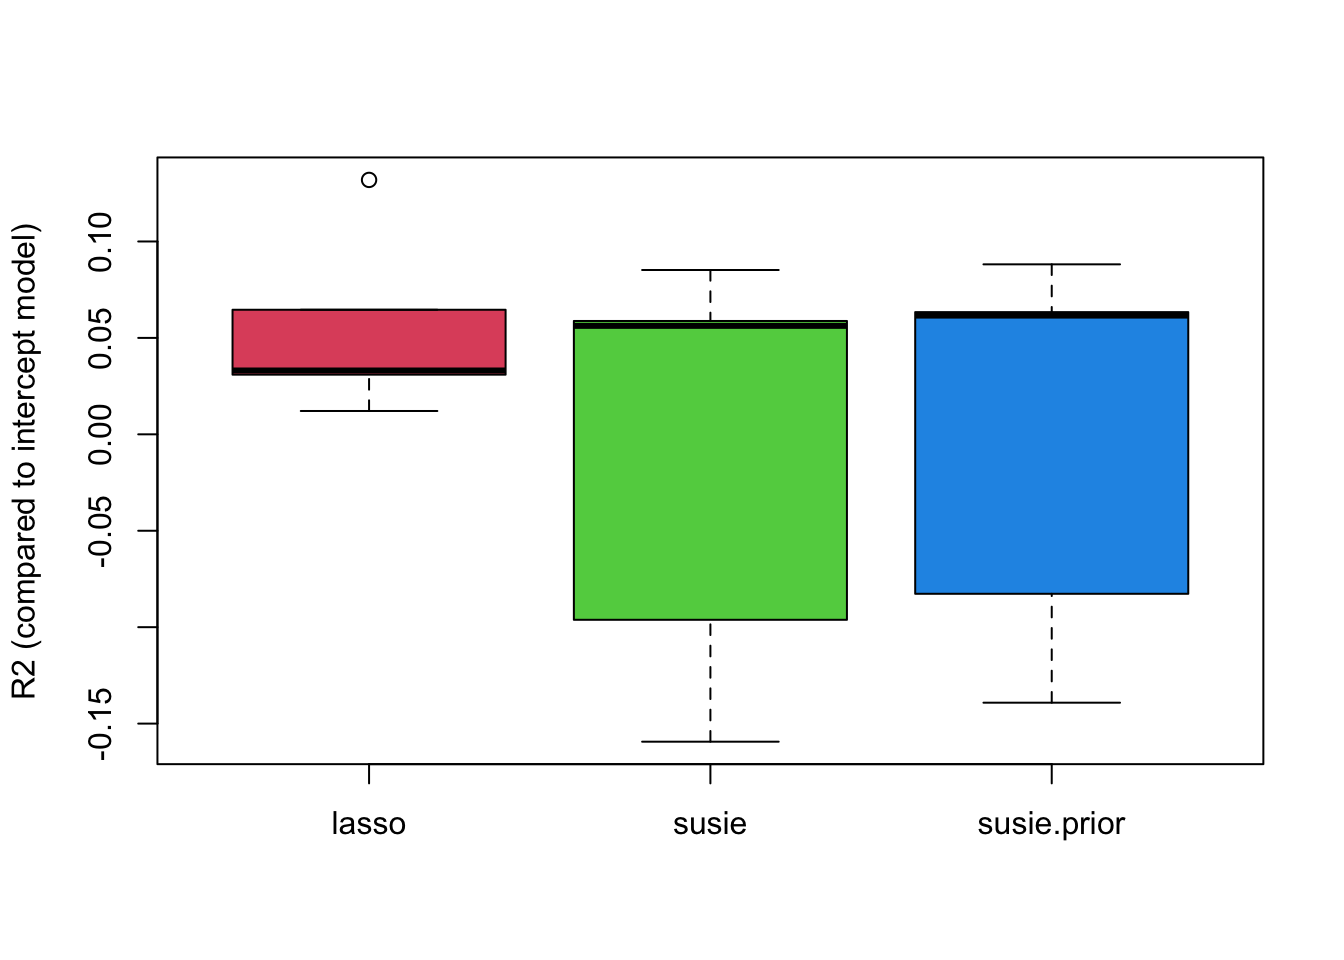
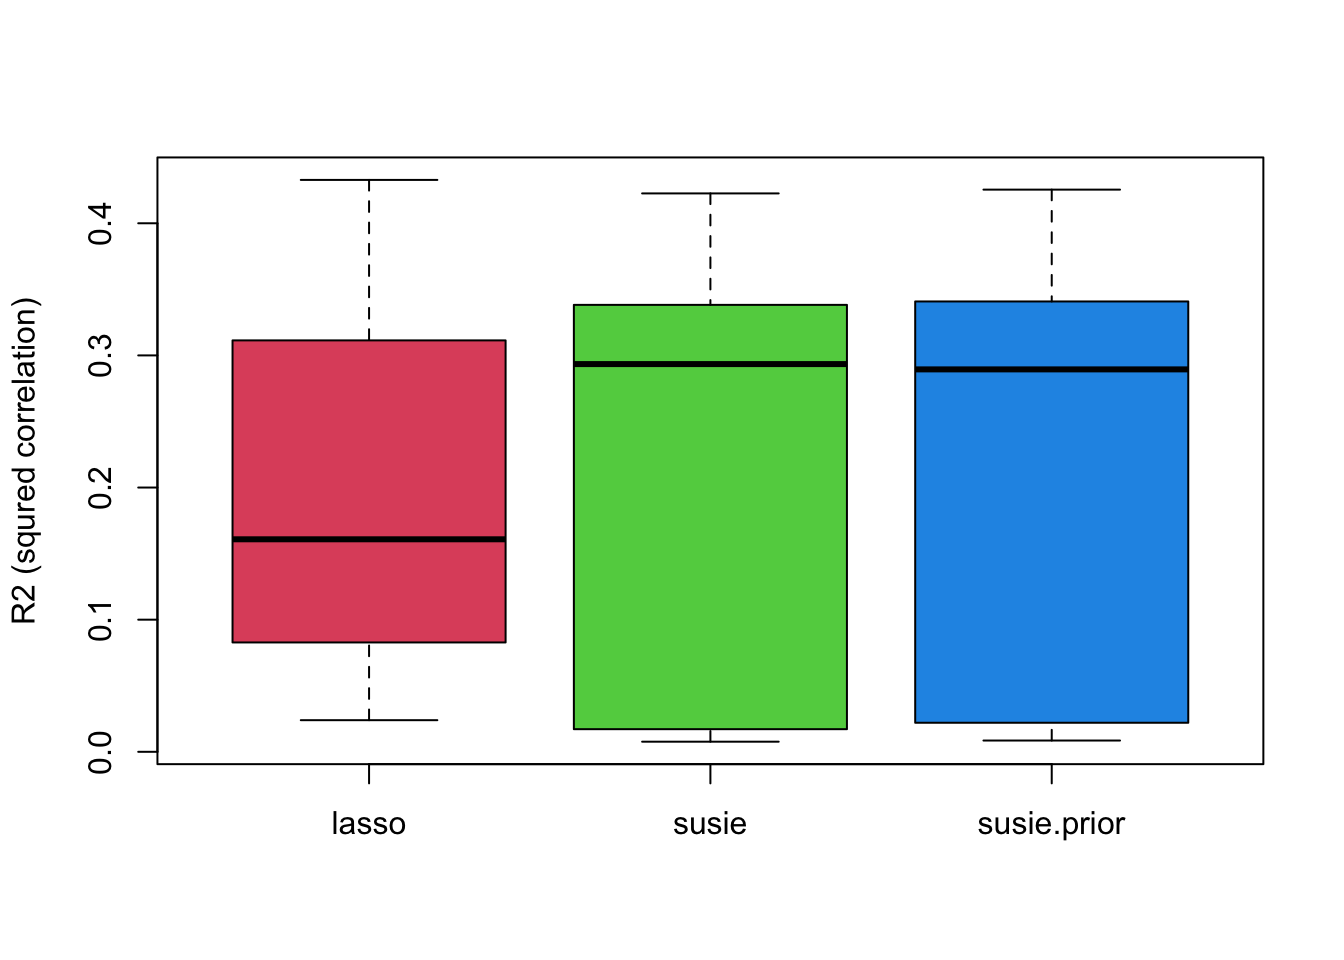
Build site.

diff --git a/docs/informative_prior.html b/docs/informative_prior.html
@@ -512,15 +512,15 @@ project makes it easier to run your code on other machines.</p>
 <div class="panel panel-default">
 <div class="panel-heading">
 <p class="panel-title">
-<a data-toggle="collapse" data-parent="#workflowr-checks" href="#strongRepositoryversionstrongahrefhttpsgithubcomLifanLiangeQTLmethodstree528a7e2b11ee2acf11f6fe1d30c37f3876037c70targetblank528a7e2a">
+<a data-toggle="collapse" data-parent="#workflowr-checks" href="#strongRepositoryversionstrongahrefhttpsgithubcomLifanLiangeQTLmethodstree882e848851ebb7597fc250ef3829d5645f55fd14targetblank882e848a">
 <span class="glyphicon glyphicon-ok text-success"
 aria-hidden="true"></span> <strong>Repository version:</strong>
-<a href="https://github.com/LifanLiang/eQTL_methods/tree/528a7e2b11ee2acf11f6fe1d30c37f3876037c70" target="_blank">528a7e2</a>
+<a href="https://github.com/LifanLiang/eQTL_methods/tree/882e848851ebb7597fc250ef3829d5645f55fd14" target="_blank">882e848</a>
 </a>
 </p>
 </div>
 <div
[2 lines of base64/hex data omitted]
 class="panel-collapse collapse">
 <div class="panel-body">
 <p>
@@ -530,7 +530,7 @@ reproducibility.
 </p>
 <p>
 The results in this page were generated with repository version
-<a href="https://github.com/LifanLiang/eQTL_methods/tree/528a7e2b11ee2acf11f6fe1d30c37f3876037c70" target="_blank">528a7e2</a>.
+<a href="https://github.com/LifanLiang/eQTL_methods/tree/882e848851ebb7597fc250ef3829d5645f55fd14" target="_blank">882e848</a>.
 See the <em>Past versions</em> tab to see a history of the changes made
 to the R Markdown and HTML files.
 </p>
@@ -548,6 +548,7 @@ Ignored files:
     Ignored:    .DS_Store
     Ignored:    .RData
     Ignored:    .Rhistory
+    Ignored:    analysis/figure/
 
 Untracked files:
     Untracked:  data/neuron_stim_genotype_chr9_2e6-3e6.rds
@@ -608,6 +609,40 @@ Message
 </tr>
 </thead>
 <tbody>
+<tr>
+<td>
+Rmd
+</td>
+<td>
+<a href="https://github.com/LifanLiang/eQTL_methods/blob/882e848851ebb7597fc250ef3829d5645f55fd14/analysis/informative_prior.Rmd" target="_blank">882e848</a>
+</td>
+<td>
+Lifan Liang
+</td>
+<td>
+2025-02-28
+</td>
+<td>
+wflow_publish("analysis")
+</td>
+</tr>
+<tr>
+<td>
+html
+</td>
+<td>
+<a href="https://rawcdn.githack.com/LifanLiang/eQTL_methods/b87a57e01f9443443fc481aa83a04aadf0da54b0/docs/informative_prior.html" target="_blank">b87a57e</a>
+</td>
+<td>
+Lifan Liang
+</td>
+<td>
+2025-02-28
+</td>
+<td>
+Build site.
+</td>
+</tr>
 <tr>
 <td>
 Rmd
@@ -945,7 +980,8 @@ sim_group_pi &lt;- function(X, pi=pi, sigma=0.25, sigma.e=1.0) {
   }
   beta &lt;- rnorm(ncol(X),sd=sigma) * gamma
   eps &lt;- rnorm(nrow(X),sd=sigma.e)
-  Y &lt;- X %*% beta + eps
+  X &lt;- scale(X, center=T, scale=T)
+  Y &lt;- drop(X %*% beta + eps)
   list(y=Y, X=X, pi=pi, gamma=gamma, beta=beta, eps=eps)
 }</code></pre>
 <p>PVE varies because the genetic component of <span
@@ -1178,9 +1214,9 @@ Lifan Liang
 to strong LD in the loci, PIP for individual SNP was low.</p>
 <pre class="r"><code>library(susieR)
 
-X1 &lt;- apply(sim.res$X,2,as.numeric)
-susie.fit &lt;- susie(X1, sim.res$y, prior_weights = sim.res$pi,
-                   L=sum(sim.res$gamma),standardize = F, coverage = 0.95)
+susie.fit &lt;- susie(sim.res$X, sim.res$y, prior_weights = sim.res$pi,
+                   L=sum(sim.res$gamma), coverage = 0.9, standardize = T,
+                   compute_univariate_zscore = T)
 susie_plot(susie.fit, y=&#39;PIP&#39;)</code></pre>
 <p><img src="figure/informative_prior.Rmd/unnamed-chunk-7-1.png" width="672" style="display: block; margin: auto;" /></p>
 <p>
@@ -1244,8 +1280,7 @@ Lifan Liang
 </div>
 <p>When SuSIE was run without the grouped prior, more SNPs have similar
 PIP in the same credible set.</p>
-<pre class="r"><code>susie.fit &lt;- susie(X1, sim.res$y, coverage = 0.95,
-                   L=sum(sim.res$gamma),standardize = F)
+<pre class="r"><code>susie.fit &lt;- susie(sim.res$X, sim.res$y,L=sum(sim.res$gamma))
 susie_plot(susie.fit, y=&#39;PIP&#39;)</code></pre>
 <p><img src="figure/informative_prior.Rmd/unnamed-chunk-8-1.png" width="672" style="display: block; margin: auto;" /></p>
 <p>
@@ -1326,73 +1361,22 @@ mean of <span class="math inline">\(y\)</span> in the training set.</p>
 <pre class="r"><code>calc.r2 &lt;- function(y.test, y.hat, y.mean) {
   1 - sum((y.test-y.hat)**2) / sum((y.test-y.mean)**2)
 }</code></pre>
+<pre class="r"><code>calc.mse &lt;- function(y.test, y.hat) {
+  mean((y.test - y.hat)^2)
+}</code></pre>
 <pre class="r"><code>set.seed(22)
 sim.res &lt;- sim_group_pi(X, pi)
 inds &lt;- sample(rep(1:5,times=20))
-sim.res$X &lt;- apply(sim.res$X,2,as.numeric)
+#sim.res$X &lt;- apply(sim.res$X,2,as.numeric)
+#sim.res$X &lt;- scale(sim.res$X, center=T, scale=T)
+dat.cor2 &lt;- matrix(nrow=5,ncol=3)
+colnames(dat.cor2) &lt;- c(&quot;lasso&quot;,&quot;susie&quot;,&quot;susie.prior&quot;)
+
 dat.r2 &lt;- matrix(nrow=5,ncol=3)
 colnames(dat.r2) &lt;- c(&quot;lasso&quot;,&quot;susie&quot;,&quot;susie.prior&quot;)
 
-for(i in 1:5) {
-  X.train &lt;- sim.res$X[inds!=i,]
-  y.train &lt;- sim.res$y[inds!=i]
-  X.test &lt;- sim.res$X[inds==i,]
-  y.test &lt;- sim.res$y[inds==i]
-  
-  lasso.fit &lt;- glmnet(X.train, y.train,lambda = 0.3)
-  lasso.y &lt;- predict(lasso.fit, X.test)
-  dat.r2[i,&quot;lasso&quot;] &lt;- cor(y.test,lasso.y)**2
-  
-  susie.fit &lt;- susie(X.train, y.train, L=5, standardize = F)
-  susie.y &lt;- predict(susie.fit, X.test)
-  dat.r2[i,&quot;susie&quot;] &lt;- cor(y.test,susie.y)**2
-  
-  susie.fit &lt;- susie(X.train, y.train, prior_weights = sim.res$pi, L=5, standardize = F)
-  susie.y &lt;- predict(susie.fit, X.test)
-  dat.r2[i,&quot;susie.prior&quot;] &lt;- cor(y.test,susie.y)**2
-}
-
-boxplot(dat.r2, ylab=&quot;R2 (squred correlation)&quot;, col=2:4)</code></pre>
-<p><img src="figure/informative_prior.Rmd/unnamed-chunk-10-1.png" width="672" style="display: block; margin: auto;" /></p>
-<p>
-<button type="button" class="btn btn-default btn-xs btn-workflowr btn-workflowr-fig" data-toggle="collapse" data-target="#fig-unnamed-chunk-10-1">
-Past versions of unnamed-chunk-10-1.png
-</button>
-</p>
-<div id="fig-unnamed-chunk-10-1" class="collapse">
-<div class="table-responsive">
-<table class="table table-condensed table-hover">
-<thead>
-<tr>
-<th>
-Version
-</th>
-<th>
-Author
-</th>
-<th>
-Date
-</th>
-</tr>
-</thead>
-<tbody>
-<tr>
-<td>
-<a href="https://github.com/LifanLiang/eQTL_methods/blob/93100b381308a1406e3dad68d5ca60d8ede2e5be/docs/figure/informative_prior.Rmd/unnamed-chunk-10-1.png" target="_blank">93100b3</a>
-</td>
-<td>
-Lifan Liang
-</td>
-<td>
-2025-02-28
-</td>
-</tr>
-</tbody>
-</table>
-</div>
-</div>
-<pre class="r"><code>dat.r2 &lt;- matrix(nrow=5,ncol=3)
-colnames(dat.r2) &lt;- c(&quot;lasso&quot;,&quot;susie&quot;,&quot;susie.prior&quot;)
+dat.mse &lt;- matrix(nrow=5,ncol=3)
+colnames(dat.mse) &lt;- c(&quot;lasso&quot;,&quot;susie&quot;,&quot;susie.prior&quot;)
 
 for(i in 1:5) {
   X.train &lt;- sim.res$X[inds!=i,]
@@ -1402,18 +1386,24 @@ for(i in 1:5) {
   
   lasso.fit &lt;- glmnet(X.train, y.train,lambda = 0.3)
   lasso.y &lt;- predict(lasso.fit, X.test)
+  dat.cor2[i,&quot;lasso&quot;] &lt;- cor(y.test,lasso.y)**2
   dat.r2[i,&quot;lasso&quot;] &lt;- calc.r2(y.test,lasso.y,mean(y.train))
+  dat.mse[i,&quot;lasso&quot;] &lt;- calc.mse(y.test,lasso.y)
   
-  susie.fit &lt;- susie(X.train, y.train, L=5, standardize = F)
-  susie.y &lt;- predict(susie.fit, X.test, &quot;response&quot;)
+  susie.fit &lt;- susie(X.train, y.train)
+  susie.y &lt;- predict(susie.fit, X.test)
+  dat.cor2[i,&quot;susie&quot;] &lt;- cor(y.test,susie.y)**2
   dat.r2[i,&quot;susie&quot;] &lt;- calc.r2(y.test,susie.y,mean(y.train))
+  dat.mse[i,&quot;susie&quot;] &lt;- calc.mse(y.test,susie.y)
   
-  susie.fit &lt;- susie(X.train, y.train, prior_weights = sim.res$pi, L=5, standardize = F)
-  susie.y &lt;- predict(susie.fit, X.test, &quot;response&quot;)
+  susie.fit &lt;- susie(X.train, y.train, prior_weights = sim.res$pi)
+  susie.y &lt;- predict(susie.fit, X.test)
+  dat.cor2[i,&quot;susie.prior&quot;] &lt;- cor(y.test,susie.y)**2
   dat.r2[i,&quot;susie.prior&quot;] &lt;- calc.r2(y.test,susie.y,mean(y.train))
+  dat.mse[i,&quot;susie.prior&quot;] &lt;- calc.mse(y.test,susie.y)
 }
 
-boxplot(dat.r2, ylab=&quot;R2 (compared to intercept model)&quot;, col=2:4)</code></pre>
+boxplot(dat.cor2, ylab=&quot;R2 (squred correlation)&quot;, col=2:4)</code></pre>
 <p><img src="figure/informative_prior.Rmd/unnamed-chunk-11-1.png" width="672" style="display: block; margin: auto;" /></p>
 <p>
 <button type="button" class="btn btn-default btn-xs btn-workflowr btn-workflowr-fig" data-toggle="collapse" data-target="#fig-unnamed-chunk-11-1">
@@ -1452,6 +1442,10 @@ Lifan Liang
 </table>
 </div>
 </div>
+<pre class="r"><code>boxplot(dat.r2, ylab=&quot;R2 (compared to intercept model)&quot;, col=2:4)</code></pre>
+<p><img src="figure/informative_prior.Rmd/unnamed-chunk-12-1.png" width="672" style="display: block; margin: auto;" /></p>
+<pre class="r"><code>boxplot(dat.mse, ylab=&quot;Mean squared error&quot;, col=2:4)</code></pre>
+<p><img src="figure/informative_prior.Rmd/unnamed-chunk-13-1.png" width="672" style="display: block; margin: auto;" /></p>
 <br>
 <p>
 <button type="button" class="btn btn-default btn-workflowr btn-workflowr-sessioninfo" data-toggle="collapse" data-target="#workflowr-sessioninfo" style="display: block;">
